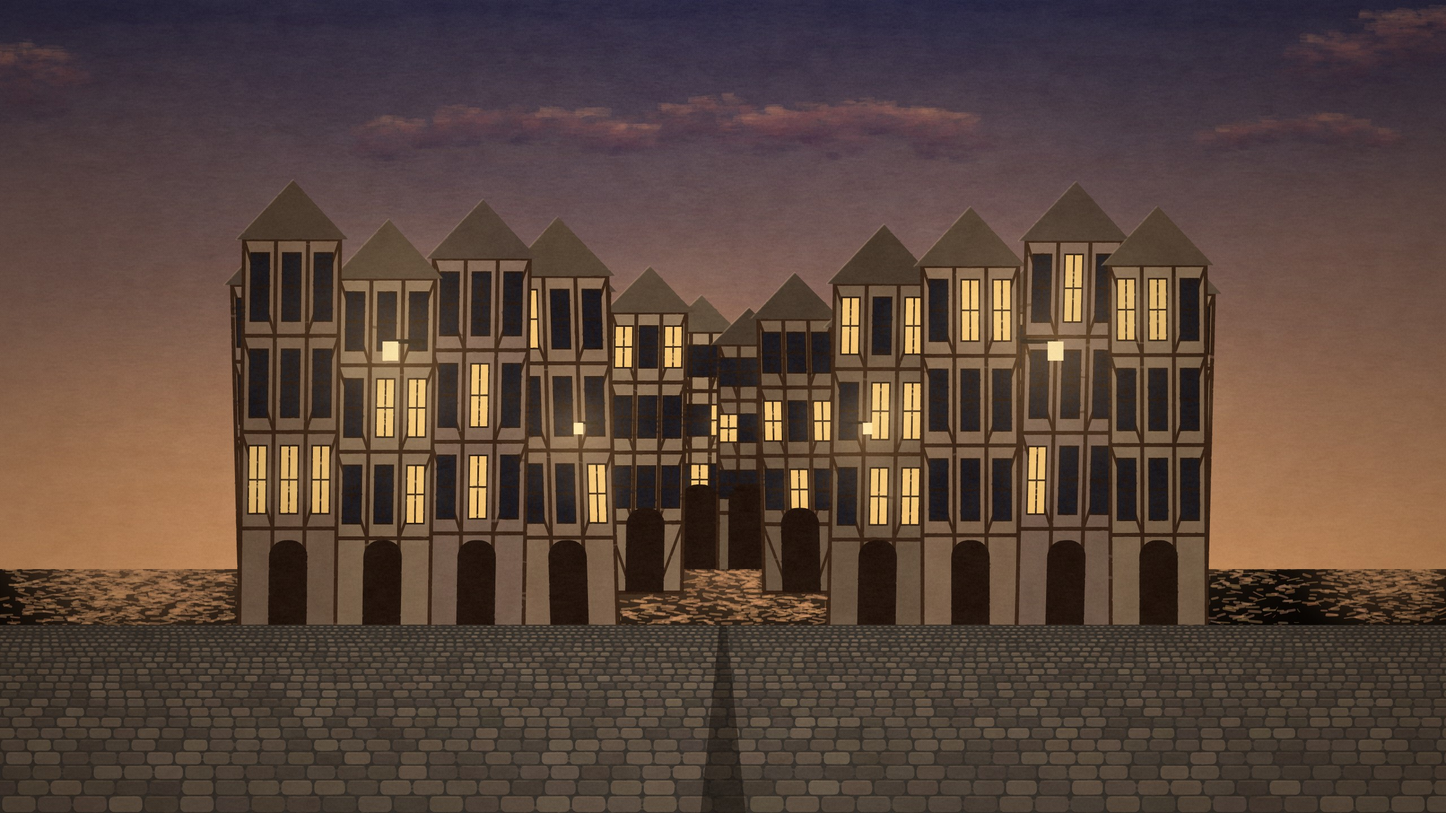
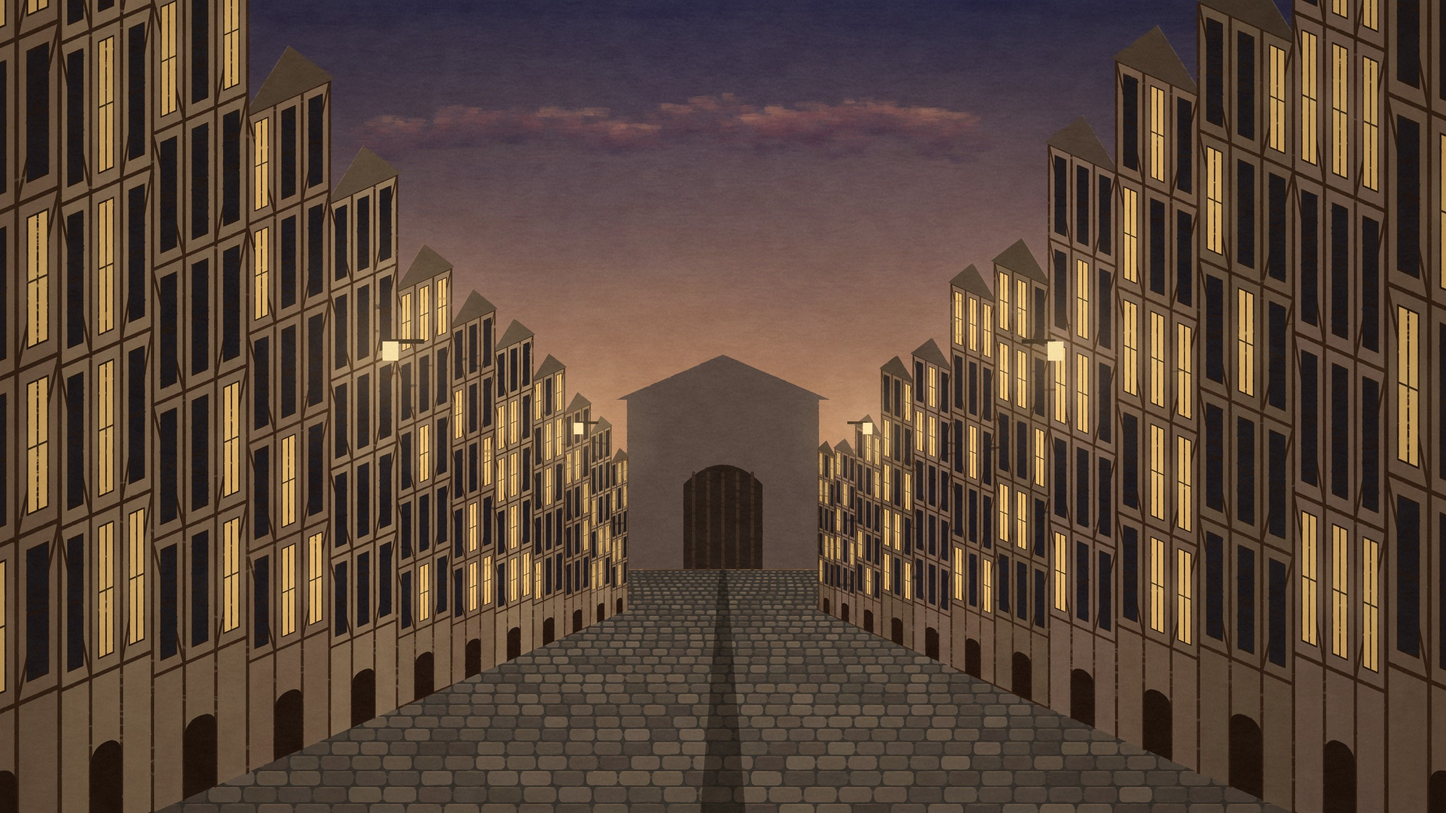
Rothschilds: Frankfurt street repainted in perspective
Claude-Session: https://claude.ai/code/session_01CFreaNGPwszN5fXknqaRex

diff --git a/2d-history/rothschilds/production/plates.js b/2d-history/rothschilds/production/plates.js
@@ -51,13 +51,16 @@
     { const gx = W / 2; ctx.fillStyle = night ? '#2a2630' : '#5a4a42'; ctx.fillRect(gx - 170, hz - 300, 340, 300); ctx.fillStyle = night ? '#141016' : '#2a1e18'; ctx.beginPath(); ctx.moveTo(gx - 70, hz); ctx.lineTo(gx - 70, hz - 150); ctx.quadraticCurveTo(gx, hz - 220, gx + 70, hz - 150); ctx.lineTo(gx + 70, hz); ctx.fill();
       ctx.strokeStyle = night ? '#4a4450' : '#3a2a20'; ctx.lineWidth = 6; for (let k = -2; k <= 2; k++) { ctx.beginPath(); ctx.moveTo(gx + k * 26, hz); ctx.lineTo(gx + k * 26, hz - 170); ctx.stroke(); } ctx.fillStyle = night ? '#2a2630' : '#5a4a42'; ctx.beginPath(); ctx.moveTo(gx - 190, hz - 300); ctx.lineTo(gx, hz - 380); ctx.lineTo(gx + 190, hz - 300); ctx.fill(); }
     const cols = ['#9a7e62', '#8a6e58', '#a88a6a', '#7e6650', '#96785e', '#8e7260'];
-    // receding houses each side (back to front)
-    const rows = [[.62, 8], [.78, 6], [1, 4]];
-    for (const [sc, n] of rows) { const hh = 640 * sc, ww = 170 * sc; for (let i = 0; i < n; i++) { const off = (W / 2 - 190) - (i + 1) * ww * .98 + (1 - sc) * 520; timberHouse(ctx, r, off, hz + (sc - .62) * 260, ww, hh + r.range(-40, 60) * sc, cols[(i + n) % 6], { lean: r.range(-.03, .03), lit: night ? .55 : .35, floors: 4 });
-      timberHouse(ctx, r, W - off - ww, hz + (sc - .62) * 260, ww, hh + r.range(-40, 60) * sc, cols[(i + 3) % 6], { lean: r.range(-.03, .03), lit: night ? .55 : .35, floors: 4, shield: o.shield && sc === 1 && i === 0 }); } }
-    cobbles(ctx, r, W, H, hz + 99, night ? '#2e2c34' : '#4a4038', night ? '#44404a' : '#6a5a4a', night ? 'rgba(180,190,240,.08)' : 'rgba(255,200,140,.12)');
+    cobbles(ctx, r, W, H, hz + 2, night ? '#2e2c34' : '#4a4038', night ? '#44404a' : '#6a5a4a', night ? 'rgba(180,190,240,.08)' : 'rgba(255,200,140,.12)');
     // a gutter down the middle and a couple of lanterns on brackets
-    ctx.fillStyle = 'rgba(20,16,12,.5)'; ctx.beginPath(); ctx.moveTo(W / 2 - 6, hz + 99); ctx.lineTo(W / 2 + 6, hz + 99); ctx.lineTo(W / 2 + 40, H); ctx.lineTo(W / 2 - 40, H); ctx.fill();
+    ctx.fillStyle = 'rgba(20,16,12,.5)'; ctx.beginPath(); ctx.moveTo(W / 2 - 6, hz + 2); ctx.lineTo(W / 2 + 6, hz + 2); ctx.lineTo(W / 2 + 40, H); ctx.lineTo(W / 2 - 40, H); ctx.fill();
+    // houses line both sides in one-point perspective, far to near (each house is an affine slice of the street wall)
+    const VX = W / 2, zs = [6, 5.1, 4.3, 3.6, 3.0, 2.5, 2.1, 1.75, 1.45, 1.2, 1.0, .86, .72];
+    for (let i = 0; i < zs.length - 1; i++) { const z1 = zs[i], z0 = zs[i + 1], zm = (z0 + z1) / 2, lw = 200;
+      for (const side of [-1, 1]) { const X = side * 1010, xa = VX + X / z0, xb = VX + X / z1, ya = hz + (H - hz) / z0, yb = hz + (H - hz) / z1;
+        ctx.save(); ctx.transform((xb - xa) / lw, (yb - ya) / lw, 0, 1 / zm, xa, ya);
+        timberHouse(ctx, r, 0, 0, lw, r.range(1380, 1600), cols[(i * 2 + (side > 0 ? 3 : 0)) % 6], { lean: 0, lit: night ? .55 : .35, floors: 6, shield: o.shield && side > 0 && i === zs.length - 4 });
+        ctx.restore(); ctx.fillStyle = 'rgba(20,12,8,.25)'; ctx.fillRect(Math.min(xa, xb), Math.min(ya, yb) - 1000 / zm, 3, 1000 / zm); } }
     for (const [lx, ly, s] of [[W * .27, H * .42, 1], [W * .73, H * .42, 1], [W * .4, H * .52, .6], [W * .6, H * .52, .6]]) { ctx.fillStyle = '#1a1612'; ctx.fillRect(lx - (lx < W / 2 ? 0 : 60 * s), ly - 4 * s, 60 * s, 8 * s); ctx.fillStyle = '#ffe0a0'; ctx.fillRect(lx - 14 * s, ly, 28 * s, 34 * s); glow(ctx, lx, ly + 17 * s, 260 * s, '#ffc070', night ? .55 : .3); }
     if (night) { ctx.fillStyle = 'rgba(10,14,40,.28)'; ctx.fillRect(0, 0, W, H); }
     FIN(ctx, r, W, H, .48);
